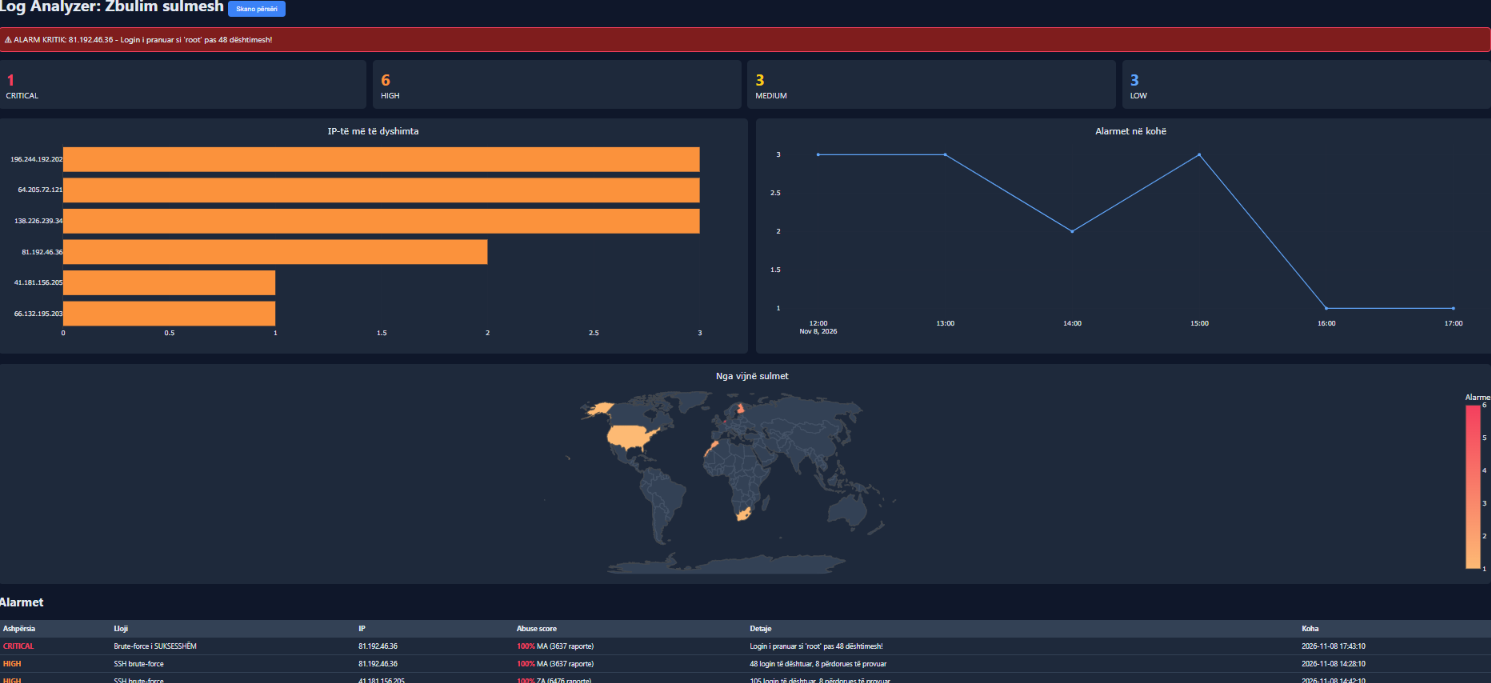
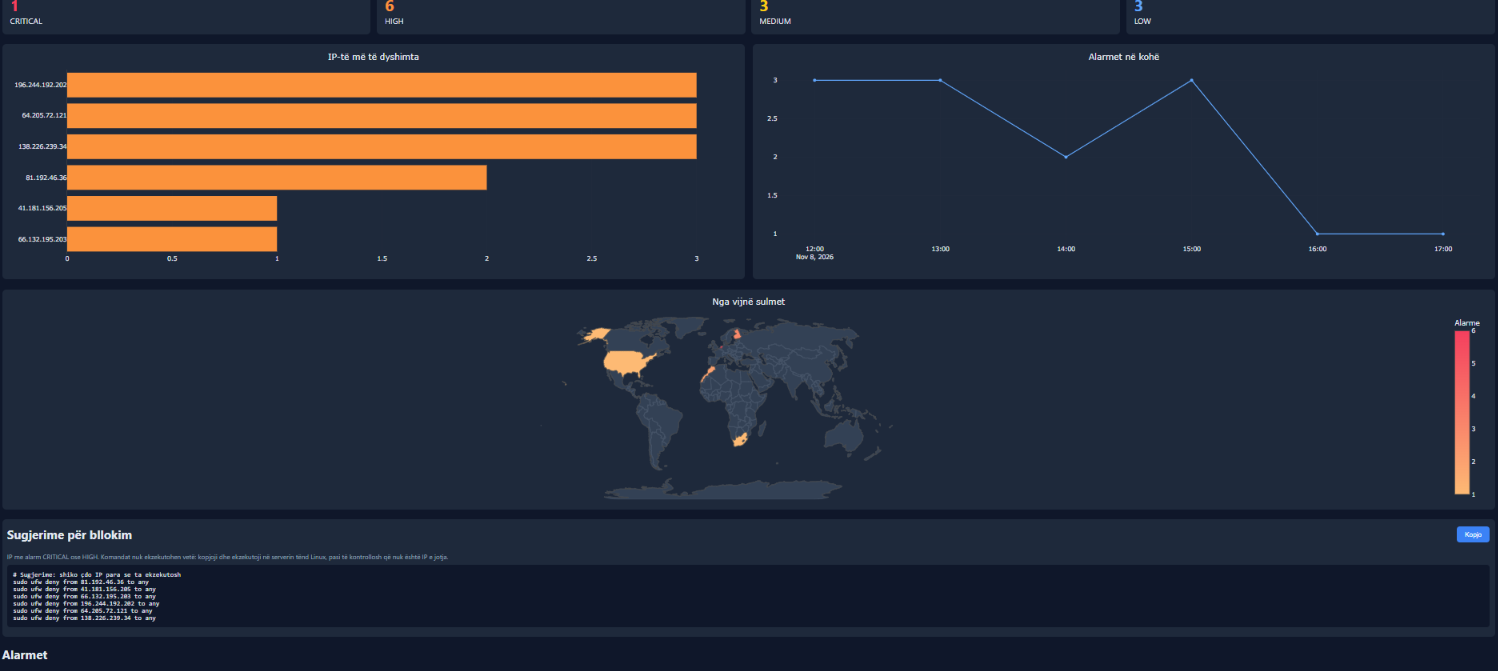
Final README and screenshot

diff --git a/README.md b/README.md
@@ -2,17 +2,18 @@
 
 ![Dashboard](docs/dashboard.png)
 
-Mjet në Python që lexon log-e të serverit (SSH `auth.log` dhe nginx `access.log`), zbulon brute-force, skanime dhe injection, dhe i shfaq alarmet në një dashboard web me reputacionin e IP-ve nga AbuseIPDB dhe hartën e vendeve nga vijnë sulmet.
+Mjet në Python që lexon log-e të serverit (SSH `auth.log` dhe nginx `access.log`), zbulon brute-force, skanime dhe injection, dhe i shfaq alarmet në një dashboard web me reputacionin e IP-ve nga AbuseIPDB, hartën e sulmeve dhe sugjerime për bllokim.
 
 ## Funksionet
 
 - Parsera me regex për SSH dhe nginx
 - Detektor me rregulla dhe dritare rrëshqitëse për brute-force
-- Alarme me ashpërsi: CRITICAL, HIGH, MEDIUM, LOW (të ruajtura në SQLite)
+- Alarme me ashpërsi CRITICAL, HIGH, MEDIUM, LOW (të ruajtura në SQLite)
 - Dashboard me karta, grafikë Plotly dhe tabelë alarmesh
-- Filtër sipas ashpërsisë dhe kërkim sipas IP ose llojit të sulmit
+- Filtër sipas ashpërsisë dhe kërkim sipas IP ose llojit
 - Reputacioni i IP-ve nga AbuseIPDB (score, vendi, numri i raporteve)
 - Hartë botërore me vendet nga vijnë sulmet
+- Sugjerime për bllokim IP (`ufw deny from`), vetëm si sugjerim, pa ekzekutim automatik
 
 ## Çfarë zbulon
 
@@ -36,10 +37,10 @@ auth.log / access.log -> parsers.py -> detector.py -> alerts.db (SQLite) -> app.
 - `parsers.py`: parsera me regex që i kthejnë rreshtat në ngjarje të strukturuara
 - `detector.py`: rregullat e detektimit dhe ruajtja e alarmeve
 - `reputation.py`: kontrollon IP-të te AbuseIPDB
-- `app.py`: server Flask me API (`/api/data`, `/api/rescan`); `pycountry` i kthen kodet e vendeve për hartën
-- `templates/dashboard.html`: dashboard-i (karta, grafikë, hartë, tabelë me filtra)
+- `app.py`: server Flask me API (`/api/data`, `/api/rescan`)
+- `templates/dashboard.html`: dashboard-i (karta, grafikë, hartë, bllokim, tabelë me filtra)
 - `generate_logs.py`: gjenerator i log-eve të rreme me sulme brenda, për testim
-- `fetch_bad_ips.py`: merr IP të raportuara nga AbuseIPDB për demon
+- `fetch_bad_ips.py`: (opsionale) merr IP të raportuara nga AbuseIPDB për demon
 
 ## Instalimi (Windows PowerShell)
 
@@ -49,28 +50,22 @@ cd log-analyzer
 python -m venv venv
 venv\Scripts\Activate.ps1
 pip install -r requirements.txt
-mkdir logs
-```
-
-### API key i AbuseIPDB
-
-Merr një key falas te [abuseipdb.com](https://www.abuseipdb.com) (Account, API, Create Key). Key-n **mos e shkruaj në kod**; vendose si variabël mjedisi:
-
-```powershell
-$env:ABUSEIPDB_KEY="key-yt"
-```
-
-Pa key, dashboard-i punon njësoj, por kolona "Abuse score" shfaq `-` dhe harta del bosh.
-
-### Nisja
-
-```powershell
-python fetch_bad_ips.py
 python generate_logs.py
 python app.py
 ```
 
 Pastaj hap http://127.0.0.1:5000
+
+### Opsionale: reputacion IP me AbuseIPDB
+
+Pa key, dashboard-i punon njësoj me IP shembull, por kolona "Abuse score" shfaq `-` dhe harta del bosh. Për reputacion të vërtetë, merr një key falas te [abuseipdb.com](https://www.abuseipdb.com) dhe vendose si variabël mjedisi (**mos e shkruaj kurrë në kod**):
+
+```powershell
+$env:ABUSEIPDB_KEY="key-yt"
+python fetch_bad_ips.py
+python generate_logs.py
+python app.py
+```
 
 ## Log-e të tua
 
@@ -78,10 +73,9 @@ Vendosi në `logs/auth.log` dhe `logs/access.log` (formati standard i OpenSSH dh
 
 ## Shënim
 
-Log-et e demos janë të gjeneruara. IP-të vijnë nga lista publike e AbuseIPDB, pra nuk janë sulme të vërteta ndaj këtij sistemi. Përdore vetëm në sisteme të tuat.
+Log-et e demos janë të gjeneruara. Përdore vetëm në sisteme të tuat. Komandat e bllokimit nuk ekzekutohen vetë; kontrollo çdo IP para se t'i përdorësh.
 
 ## Idetë për të ardhmen
 
-- Njoftime me email/Telegram për alarme CRITICAL
+- Njoftime me email për alarme CRITICAL
 - Analizë e log-eve të vërteta nga një server Linux
-- Sugjerime për bllokim IP (`ufw deny from`)
